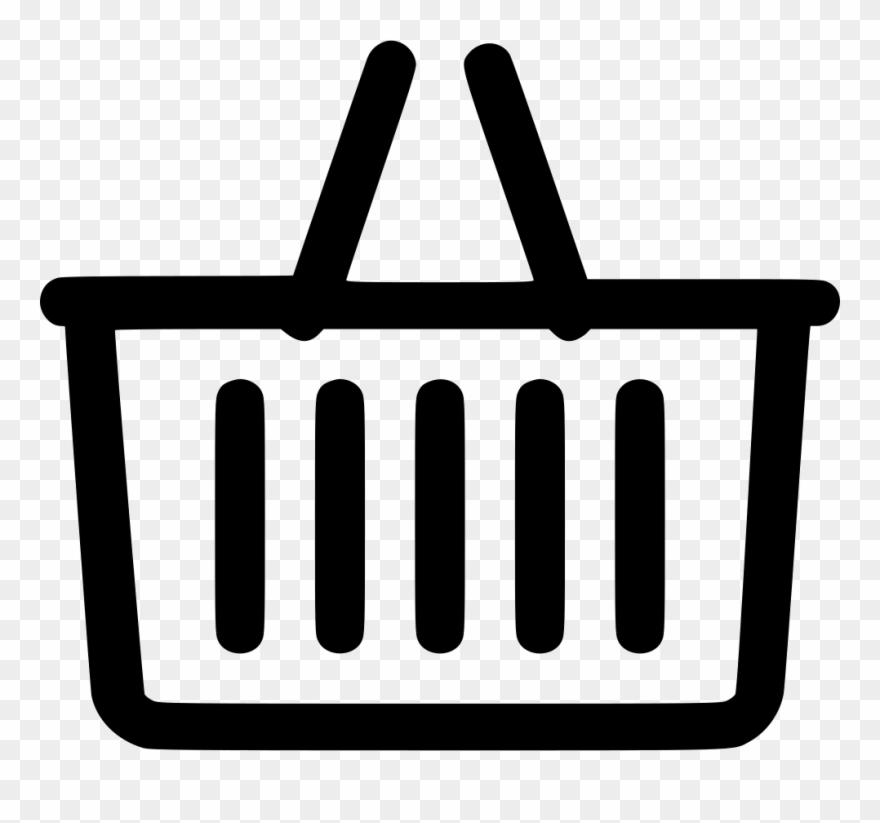
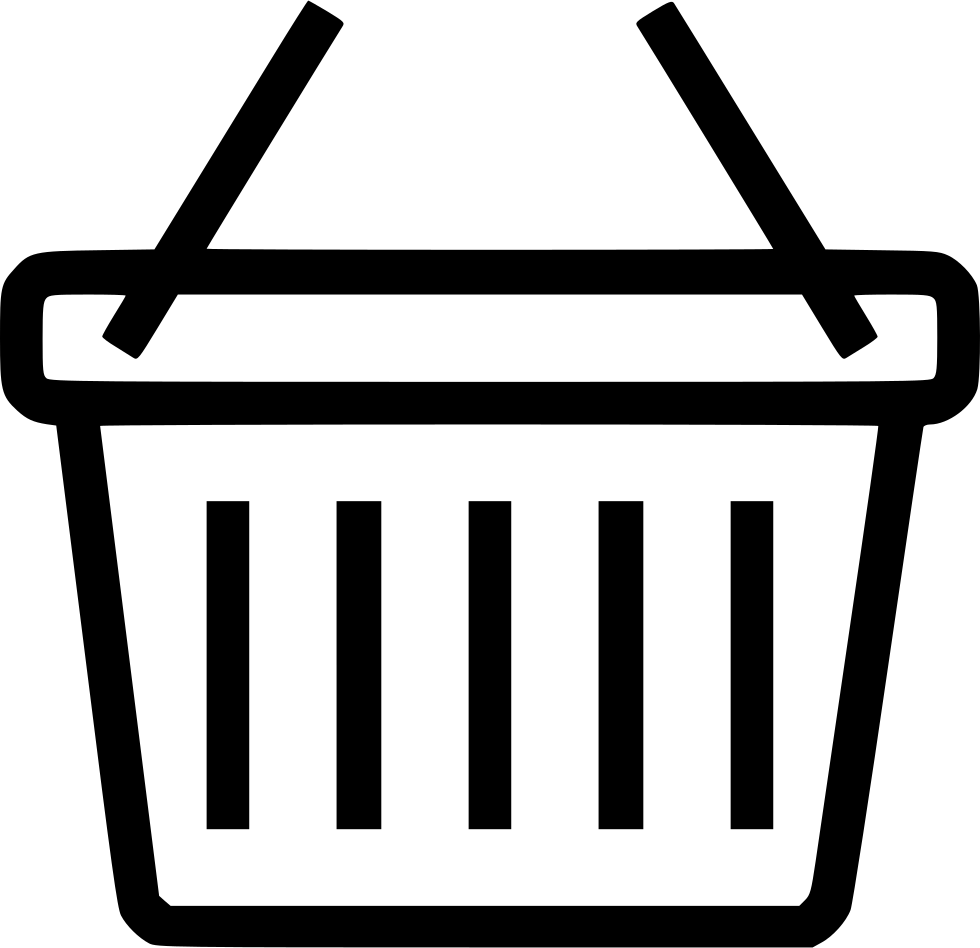
CSS Template

diff --git a/src/App.css b/src/App.css
@@ -1,38 +1,120 @@
-.App {
+body {
+  background: white;
+  background: linear-gradient(lightcoral, yellow);
+  background-repeat: no-repeat;
+  background-size: cover;
   text-align: center;
+  margin-left: auto;
+  margin-right: auto;
 }
 
-.App-logo {
-  height: 40vmin;
-  pointer-events: none;
+.nav-bar {
+  background-color: #ab1142;
+  padding: 15px;
 }
 
-@media (prefers-reduced-motion: no-preference) {
-  .App-logo {
-    animation: App-logo-spin infinite 20s linear;
-  }
+.nav-bar nav {
+  text-align: left;
+  overflow: hidden;
 }
 
-.App-header {
-  background-color: #282c34;
-  min-height: 100vh;
-  display: flex;
-  flex-direction: column;
-  align-items: center;
-  justify-content: center;
-  font-size: calc(10px + 2vmin);
-  color: white;
+.nav-bar nav a {
+  line-height: 50px;
+  color: #f2f2f2;
+  text-align: center;
+  padding: 7px;
+  font-size: 18px;
+  font-family: sans-serif;
+  text-decoration: none;
+  font-weight: 600;
 }
 
-.App-link {
-  color: #61dafb;
+.nav-bar nav a:hover {
+  background-color: #851538;
+  padding: 7px;
 }
 
-@keyframes App-logo-spin {
-  from {
-    transform: rotate(0deg);
-  }
-  to {
-    transform: rotate(360deg);
-  }
+.basket img{
+  float: right;
+  width: auto;
+  height: 50px;
+}
+
+.footer {
+  background-color: darkblue;
+  text-align: left;
+}
+
+.footer a {
+  line-height: 50px;
+  color: #f2f2f2;
+  text-align: center;
+  padding: 7px;
+  font-size: 18px;
+  font-family: sans-serif;
+  text-decoration: none;
+  font-weight: 600;
+  margin-left: 20px;
+}
+
+.footer a:hover{
+  text-decoration: underline;
+}
+
+.logo img {
+  background-color: orangered;
+  border: 2px solid black;
+  border-radius: 6px;
+  padding: 20px;
+  width: 50%;
+  height: 50%;
+}
+
+.card {
+  background: linear-gradient(orangered, orange);
+  box-shadow: 0px 10px black;
+  border-radius: 16px;
+  width: 250px;
+  height: 350px;
+}
+
+.card img {
+  border-radius: 100px;
+  width: 150px;
+  height: 150px;
+}
+
+.card button {
+  background: rgb(255, 208, 0);
+  border-radius: 8px;
+  box-shadow: 0px 2px black;
+  padding: 5px;
+  transition: all .2s ease-in-out;
+}
+
+.card button:hover {
+  background: rgb(255, 229, 116);
+  transform: scale(1.1);
+}
+
+.card p {
+  padding-top: 10px;
+  
+}
+
+.card-space {
+  padding: 50px;
+}
+
+.spacer {
+  padding: 5px;
+}
+
+.basket img {
+  padding: 5px;
+  transition: all .2s ease-in-out;
+}
+
+.basket img:hover {
+  transform: scale(1.1);
 }

diff --git a/src/App.js b/src/App.js
@@ -1,20 +1,72 @@
-import { useState, React } from 'react';
+import { useState, useEffect, React } from 'react';
+import basket from './images/BasketIcon.png';
+import catLogo from './images/CatLogo.jpg';
 import './App.css';
 
 
 function App() {
 
+  const [catImage, setCatImage] = useState("");
+  const [catName, setCatName] = useState("");
+
+  const catImg = async () => {
+    const response = await fetch("https://api.thecatapi.com/v1/images/search");
+    const data = await response.json();
+    setCatImage(data[0].url);
+  }
+
+  useEffect(() => {
+    catImg();
+  }, [])
+
   return (
 
     <div>
 
-      <div>
-        <nav>
-          <a href="#">Home</a> |
-          <a href="#">Cats</a> |
+      <div className="nav-bar">
+        <nav className="pages">
+          <a href="#">Home</a>
+          <a href="#">Cats</a>
           <a href="#">Checkout</a>
+          <span className="basket"><img src={basket} alt="Basket-Icon" /></span>
         </nav>
-        <img src="" alt="Basket"></img>
+
+      </div>
+
+      <div>
+        <h1>Cats4Lyf</h1>
+      </div>
+
+      <div className="logo">
+        <img src={catLogo} alt="Cat Logo" />
+      </div>
+
+      <div className="card-space">
+
+        <div className="card">
+          <p>John</p>
+          <img src={catImage} alt="Test" />
+          <p>Price: £499</p>
+          <div className="spacer">
+            <button id="buyItem">Buy</button>
+          </div>
+          <div className="spacer">
+            <button id="addToBasket">Add to basket</button>
+          </div>
+        </div>
+
+      </div>
+
+      <div className="footer">
+        <div>
+          <a href="#">Home</a>
+        </div>
+        <div>
+          <a href="#">Cats</a>
+        </div>
+        <div>
+          <a href="#">Checkout</a>
+        </div>
       </div>
 
     </div>
